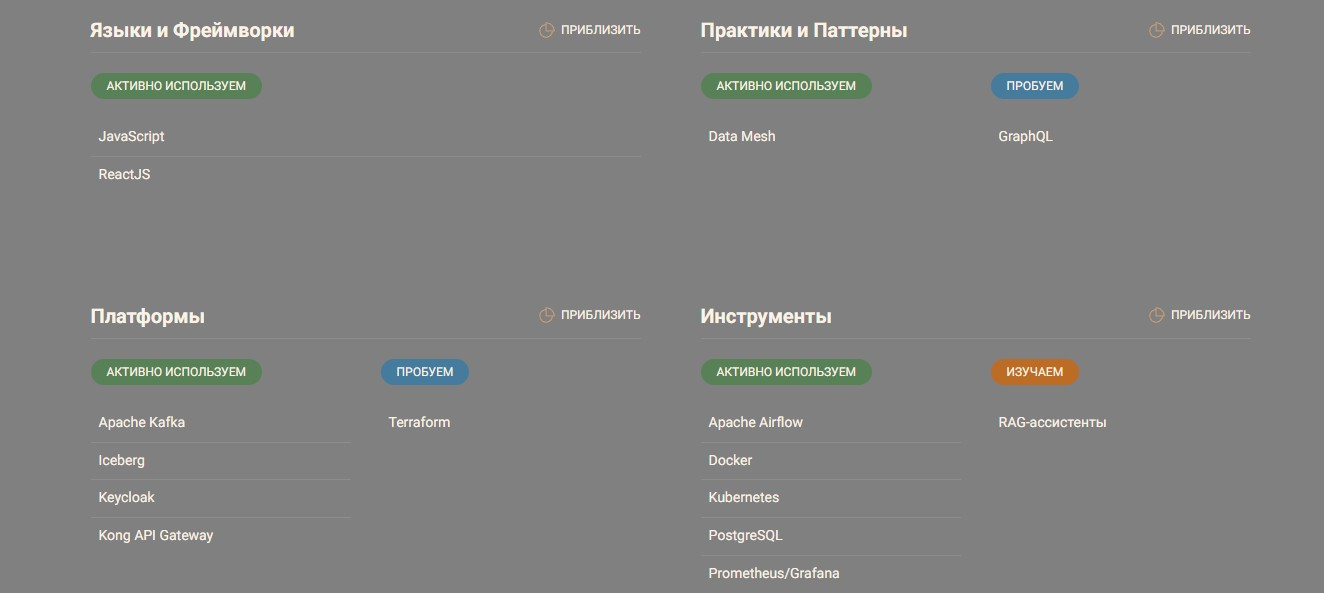
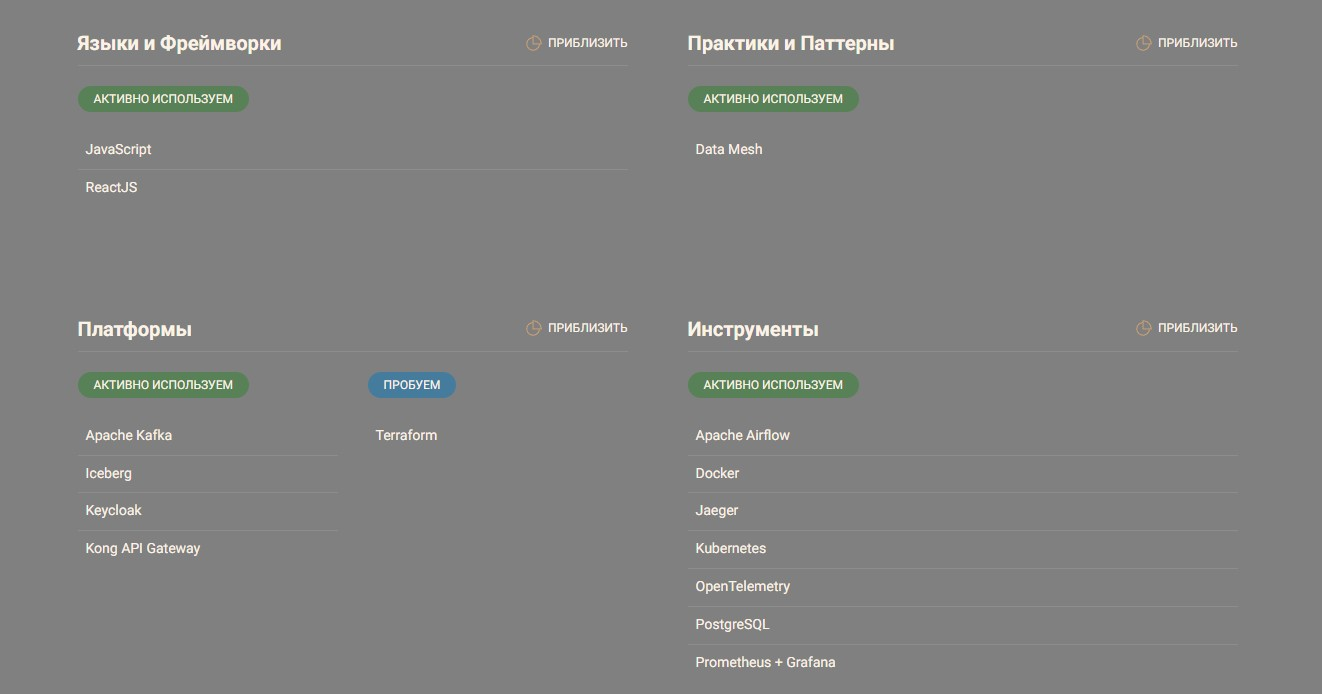
task 3 - updated radar and roadmap

diff --git a/Task3/README.md b/Task3/README.md
@@ -28,11 +28,11 @@
 | Kong Gateway         | API шлюз на базе Nginx | Единый API Gateway для всех доменов, безопасная интеграция партнеров, контроль трафика между сервисами |
 | Apache Airflow       | Платформа управления обработкой данных | Разработка систем обработки данных. Построение витрины данных, отчётов. Подготовка данных для машинного обучения |
 | Docker               | Платформа для контейнеризации приложений | Масштабируемость сервисов, снижение времени развертывания |
-| Kuberbetes           | Оркестратор контейнеров | Масштабируемость сервисов, снижение времени развертывания |
+| Kubernetes           | Оркестратор контейнеров | Масштабируемость сервисов, снижение времени развертывания |
 | Terraform            | Инструмент для управления инфраструктурой как кодом | Повторяемость развертывания инфраструктуры, снижение ручного труда, повышение скорости развертывания |
-| Prometheus + Grafana | Связка инструментов для мониторинга IT-инфраструктуры | Наблюдаемость пайплайнов и платформ: сбор метрик, логов, трейсов; контроль SLA/SLO |
-| RAG                  | Технология, которая соединяет языковую модель с внешней базой знаний | Увеличить эффект от внедрения ИИ в бизнес и повысить точность ответов LLM |
-| GraphQL              | Язык запросов для API-интерфейсов и среда, в которой они выполняются | Унификация API |
+| Prometheus + Grafana | Связка инструментов для мониторинга IT-инфраструктуры | Сбор метрик, наблюдаемость пайплайнов и платформ |
+| Jaeger               | Система для распределённого трейсинга | Сбор трейсов, наблюдаемость платформ |
+| OpenTelemetry        | Открытый стандарт и набор инструментов для единообразного сбора данных телеметрии | Сбор метрик, трейсов, наблюдаемость платформ |
 | Power BI             | Платформа для анализа данных, их визуализации и создания интерактивных отчетов | Используется в текущей BI-системе. Портал самообслуживания, визуализация метрик |
 | Power Builder        | Интегрированная среда разработки приложений баз данных | Используется для доступа операторов в клиниках к данным. Планируется отказ от устаревшей технологии, для которой трудно найти разработчиков |
 | PostgreSQL           | Реляционная система управления базами данных | Построение DWH внутри каждого домена |
@@ -42,16 +42,19 @@
 
 | Инициатива                       | Период     | Основные действия                                               |  Ответственные            | Ресурсы               |
 | -------------------------------- | ---------- | --------------------------------------------------------------- | ------------------------- | --------------------- |
-| Подготовка инфраструктуры        | Q1–Q2 2026 | Внедрение Kubernetes, CI/CD, централизованной авторизации (IAM) | DevOps Team               | Облако                |
-| Разделение на домены             | Q2–Q3 2026 | Реализация Data Mesh, выделение доменов Clinic, Fintech, AI, BI | Архитектурная команда     | Kafka, DWH, DataOps   |
-| Портал самообслуживания          | Q2-Q4 2026 | Разработка, использование IAM, тестирование                     | BI / Frontend / Backend   | Ресурсы на разработку |
-| AI-интеграции и аналитика        | Q4 2026    | Внедрение Airflow, подключение AI к медицинским данным          | Команда Data Science и AI | GPU                   |
-| Интеграция с внешними партнёрами | Q1 2026    | Интеграция с партнерами (фармацевтика и электроника) через API  | Backend                   | API Gateway           |
-| Мониторинг и контроль качества   | Q1–Q2 2026 | Настройка OpenTelemetry, дашборды качества                      | SRE-инженеры              | Grafana, Prometheus   |
+| Подготовка инфраструктуры | Q1–Q2 2026 | Внедрение Kubernetes, CI/CD, Terraform, Keycloak, Kong Gateway, Kafka, PostgreSQL, Data Lakehouse | DevOps | Облако |
+| Разделение на домены | Q1–Q2 2026 | Реализация подхода Data Mesh, выделение доменов Clinic, Fintech, AI, BI | Архитектурная команда | Kafka, DWH, DataOps |
+| Портал самообслуживания | Q2-Q4 2026 | Миграция данных в Data Lakehouse. Разработка портала, использование IAM, Power BI, тестирование. | BI, Frontend, Backend | Ресурсы на разработку |
+| Мониторинг и контроль качества | Q1–Q2 2026 | Настройка Prometheus, Grafana, Jaeger, дашбордов качества, внедрение библиотек OpenTelemetry для сбора телеметрии | DevOps, Frontend, Backend | Ресурсы на разработку |
+| Интеграция с внешними партнёрами | Q3 2026 | Интеграция с партнерами (фармацевтика и электроника) через API | Backend | Ресурсы на разработку, API Gateway |
+| AI-интеграции и аналитика | Q4 2026 | Внедрение Airflow, подключение AI к медицинским данным | Команда Data Science и AI | GPU |
+
 
 ### 3. Обоснование изменений
 
-| Инициатива                       | Бизнес-цель                                            | Результат                                  | Влияние на бизнес                                                    |
+Обозначим связь инициатив с бизнес-задачами
+
+| Инициатива                       | Бизнес-задача                                          | Результат                                  | Влияние на бизнес                                                    |
 | -------------------------------- | ------------------------------------------------------ | ------------------------------------------ | -------------------------------------------------------------------- |
 | Подготовка инфраструктуры        | Ускорить выпуск сервисов                               | Унифицированная среда для сервисов         | Сокращение time-to-market, стабильная среда                          |
 | Разделение на домены             | Уменьшить зависимость от DWH и централизованных команд | Независимое развитие направлений           | Рост автономности и скорости разработки                              |

diff --git a/Task3/tech_radar/radar/2025-12-19/opentelemetry.md b/Task3/tech_radar/radar/2025-12-19/opentelemetry.md
@@ -1,5 +1,5 @@
 ---
-title: "Prometheus + Grafana"
+title: "OpenTelemetry"
 ring: adopt
 quadrant: tools
 tags: [observability, new]

diff --git a/Task3/tech_radar/radar/2025-12-19/jaeger.md b/Task3/tech_radar/radar/2025-12-19/jaeger.md
@@ -1,5 +1,5 @@
 ---
-title: "Prometheus + Grafana"
+title: "Jaeger"
 ring: adopt
 quadrant: tools
 tags: [observability, new]
